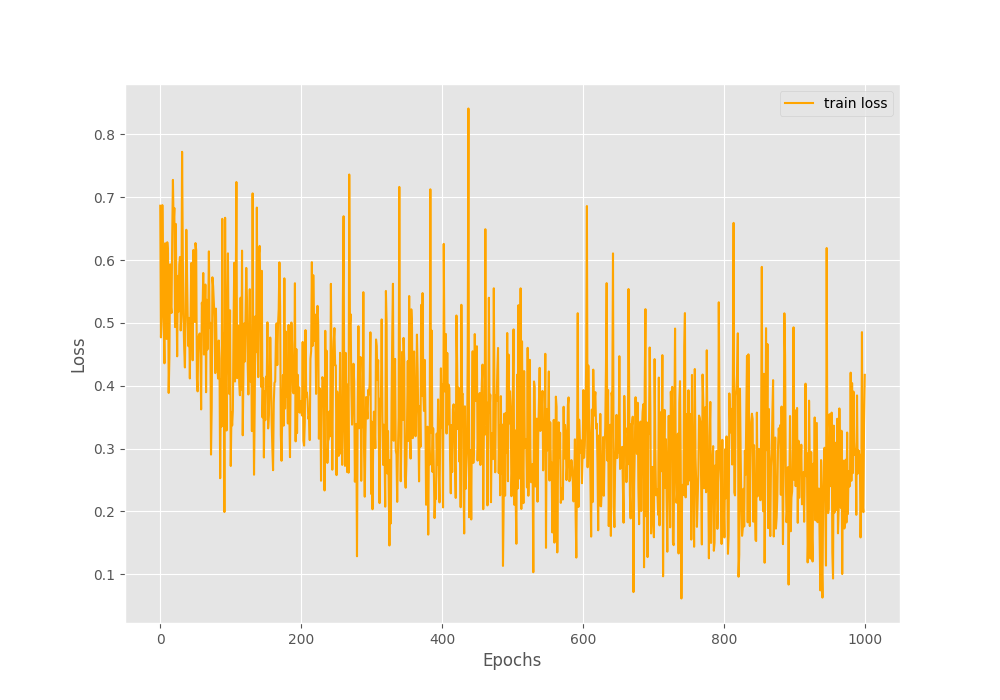
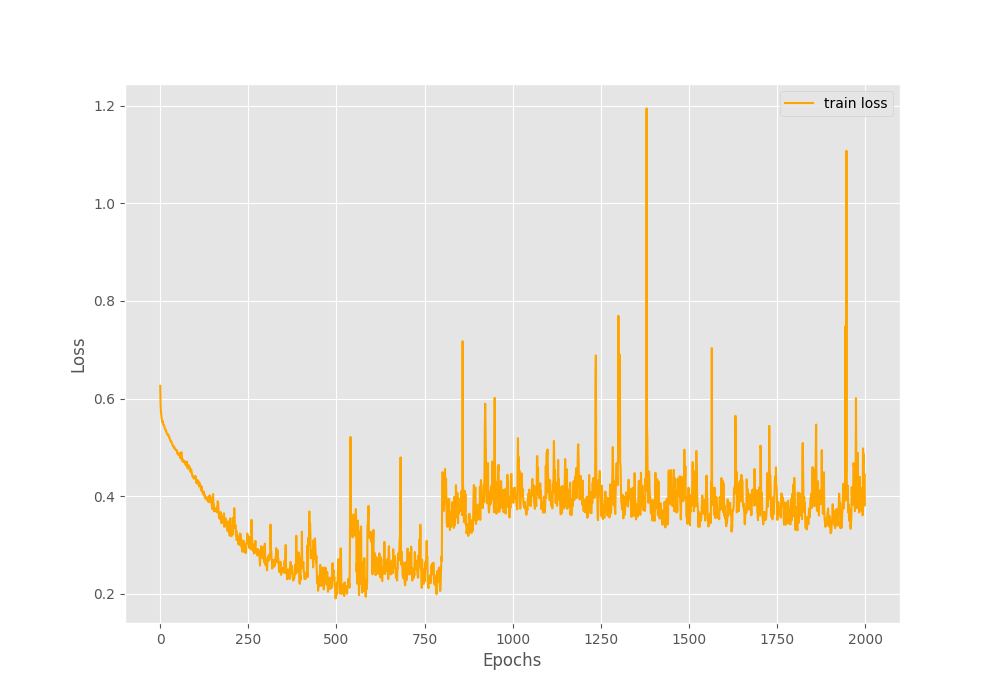
update loss chart

diff --git a/main.py b/main.py
@@ -83,24 +83,27 @@ class ThyroidMLP(Module):
 
         return x
 
-def trainModel(trainDL, model, epochs=100, lr=0.01, momentum=0.8, savedPath='model.pth'):
+def trainModel(trainDL, model, epochs=100, lr=0.01, momentum=0.9, savedPath='model.pth'):
     '''
     trainDL            – dataloader
     epochs             – how many times do we want to feed through and back propagate errors (this is an optional parameter as the default is set to 100)
     lr (learning rate) – at what rate the model learns at – too high a value and it misses key updates, too low and it can take forever. This is where the art comes into Machine Learning.
     save_path          – this will be the serialised PyTorch (.pth) file format. All PyTorch models are saved with this postfix.
     momentum           – is used to speed up training
+
+    https://stackoverflow.com/questions/63106109/how-to-display-graphs-of-loss-and-accuracy-on-pytorch-using-matplotlib
     '''
     start = time.time()
     criterion = BCELoss() # loss function # TODO: use different loss function
     optimizer = SGD(model.parameters(), lr=lr, momentum=momentum) # TODO: use different optimizer
     loss = 0.0
-    lossList = numpy.array([])
+    lossList = []
 
     for epoch in range(epochs):
         print(f'Epoch { epoch+1 }/{ epochs }')
         model.train()
 
+        epochLoss = []
         # iterate training data loader
         for i, (inputs, targets) in enumerate(trainDL):
             optimizer.zero_grad() # set to zero gradients
@@ -109,6 +112,8 @@ def trainModel(trainDL, model, epochs=100, lr=0.01, momentum=0.8, savedPath='mod
             loss = criterion(outputs, targets)
             loss.backward() # set the loss to back propagate through the network updating the weights as it goes
             optimizer.step()
+
+            epochLoss.append(loss.item())
         # torch.save(model, savedPath)
         torch.save({
             'epoch': epoch,
@@ -117,14 +122,14 @@ def trainModel(trainDL, model, epochs=100, lr=0.01, momentum=0.8, savedPath='mod
             'loss': criterion,
         }, savedPath)
 
-        lossList = numpy.append(lossList, loss.detach().numpy())
+        lossList.append(sum(epochLoss) / len(epochLoss))
 
         # TODO: save best data and draw
 
     timeDelta = time.time() - start
     print(f'Trainging complete in { timeDelta // 60 }, { timeDelta % 60 }s')
 
-    # savePlots(lossList)
+    savePlots(lossList)
 
     return model
 
@@ -218,7 +223,7 @@ trainDL, testDL = prepareDataset('https://raw.githubusercontent.com/StatsGary/Da
 
 # train the model
 model = ThyroidMLP(26)
-trainModel(trainDL=trainDL, model=model, epochs=1000, lr=0.01)
+trainModel(trainDL=trainDL, model=model, epochs=2000, lr=0.01)
 
 results = evaluateModel(testDL, model, beta=1)
 
